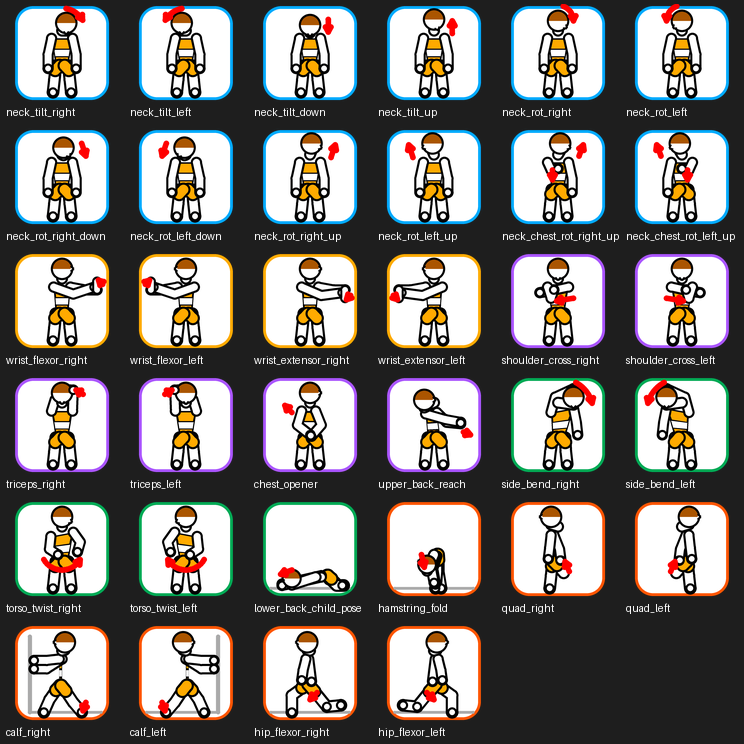
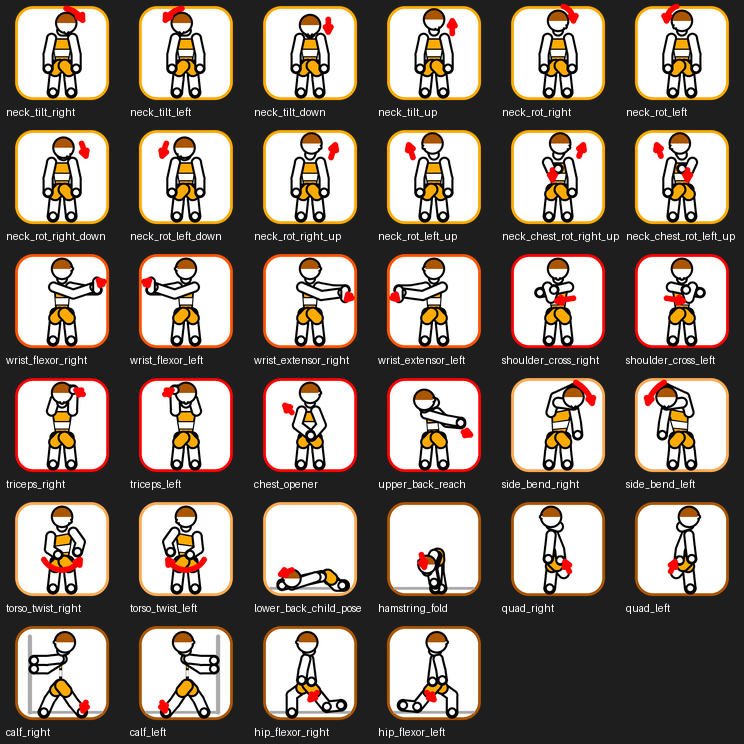
Fix localized text clipping, reorder position, and bump to 1.1.0
- Home & reminder summary: split "N stretches" and "M min" onto two lines
  and drop the "·" so the longer localized words (Spanish "estiramientos",
  Portuguese "alongamentos") and 2-digit counts no longer clip on the round
  bezel. Nudged the next-alarm time up to make room; reminder title uses
  FONT_SMALL + fit so it never truncates.
- Reorder: the move menu now shows the current position (e.g. 2/14) in the
  title and on each Up/Down action, so it is always clear where the stretch is.
- Version -> 1.1.0 (About). Regenerated the catalog montage and the Home
  screenshot in the orange theme; warmed the README badge colors; added the
  v1.1.0 "What's New" store copy.

diff --git a/README.md b/README.md
@@ -10,9 +10,9 @@ Build your own routine, get reminded at the times you choose, follow guided
 illustrated stretches, and save every session to Garmin Connect.
 
 [![CI](https://github.com/renanleonellocastro/Stretches/actions/workflows/ci.yml/badge.svg)](../../actions/workflows/ci.yml)
-[![Release](https://img.shields.io/github/v/release/renanleonellocastro/Stretches?include_prereleases&color=00aaff)](../../releases)
-[![License: MIT](https://img.shields.io/badge/License-MIT-00aa55.svg)](LICENSE)
-[![Connect IQ](https://img.shields.io/badge/Connect%20IQ-%E2%89%A53.2-aa55ff)](https://developer.garmin.com/connect-iq/)
+[![Release](https://img.shields.io/github/v/release/renanleonellocastro/Stretches?include_prereleases&color=ff5500)](../../releases)
+[![License: MIT](https://img.shields.io/badge/License-MIT-ffaa00.svg)](LICENSE)
+[![Connect IQ](https://img.shields.io/badge/Connect%20IQ-%E2%89%A53.2-ff8800)](https://developer.garmin.com/connect-iq/)
 [![Devices](https://img.shields.io/badge/devices-28-ffaa00)](#-supported-devices)
 [![Languages](https://img.shields.io/badge/languages-6-ff5500)](#-languages)
 

diff --git a/docs/STORE_LISTING.md b/docs/STORE_LISTING.md
@@ -56,6 +56,12 @@ Loosen up. Your neck will thank you.
 
 ---
 
+## What's New (v1.1.0)
+- Fresh look: a bold new orange activity icon and a matching in-app theme.
+- Set your order: stretches now play in the order you choose, with a new Reorder screen to arrange them.
+- Simpler reminders: a calm, one-glance "time to stretch" notification.
+- Reliability: fixes to scheduled reminders and clearer text on smaller round screens.
+
 ## What's New (v1.0.0)
 - First release: 34 illustrated stretches, custom routines, scheduled reminders, guided workouts, and Garmin Connect activity recording in six languages.
 
